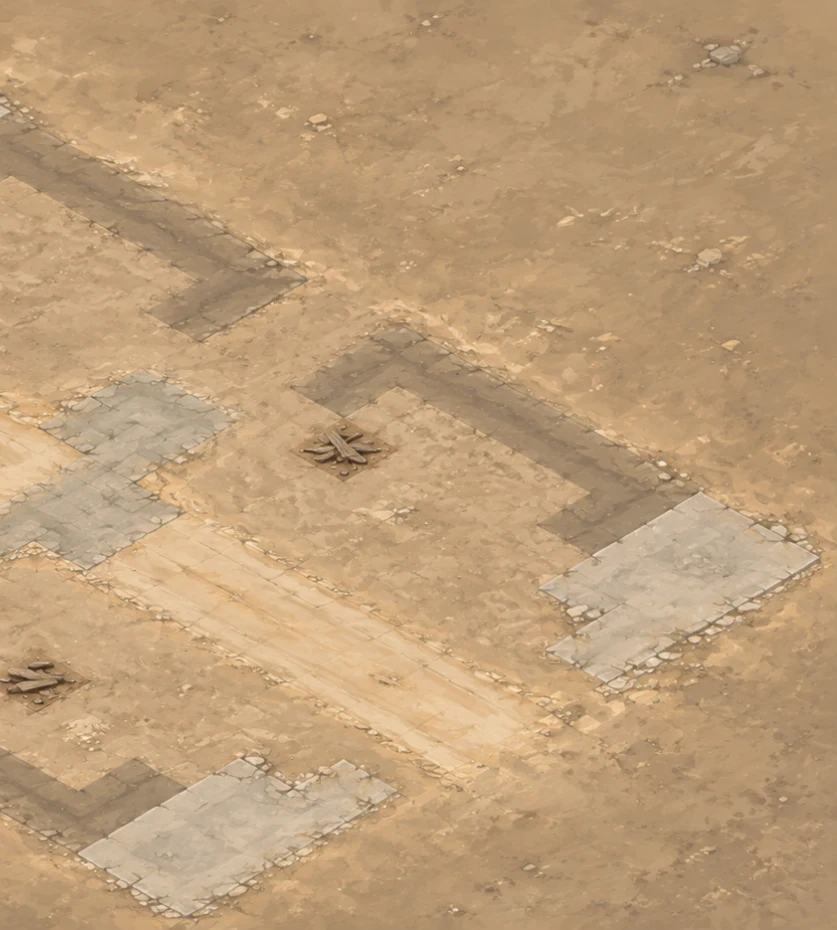
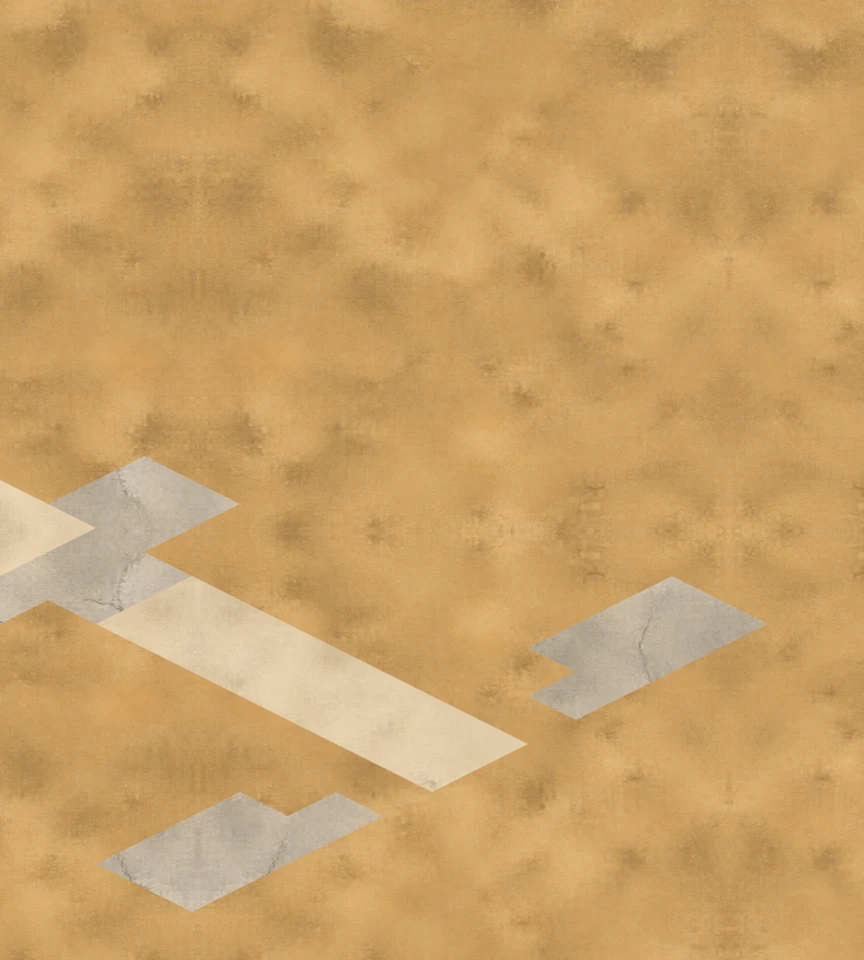
Align quarry ground materials and cover to map cells

diff --git a/scripts/art/quarry-ground-pack.ts b/scripts/art/quarry-ground-pack.ts
@@ -1,0 +1,85 @@
+/** Pack authored material texels through authoritative map masks; never infer geometry from art. */
+import { mkdirSync, writeFileSync } from 'node:fs';
+import { QUARRY_GATE } from '../../src/content/maps/combat';
+import { newImage, readImage, pixelAt, setPixel, writePng } from './lib/image';
+import { alphaBounds, crop } from './lib/trim';
+import { scaleTo } from './lib/scale';
+import { encodeWebp } from './lib/webp';
+
+const [materialPath, coverPath] = process.argv.slice(2);
+if (!materialPath || !coverPath)
+  throw new Error('Provide three-panel materials and transparent timber PNGs.');
+const source = readImage(materialPath),
+  timber = readImage(coverPath);
+if (source.width !== source.height * 3)
+  throw new Error('Expected three equal square material panels.');
+const fields = [0, 1, 2].map((index) =>
+  crop(source, {
+    // Discard generation's panel-border contamination before repeating the field.
+    x: index * source.height + 8,
+    y: 8,
+    width: source.height - 16,
+    height: source.height - 16,
+  }),
+);
+/** Reflected authored texels meet without seams; no upscaling or invented paint. */
+const mirror = (value: number, size: number) => {
+  const period = value % (size * 2);
+  return period < size ? period : size * 2 - period - 1;
+};
+const plate = newImage(2304, 1280);
+const counts: Record<string, number> = {};
+for (let py = 0; py < plate.height; py++)
+  for (let px = 0; px < plate.width; px++) {
+    // Pixel centers in world coordinates, inverted from X=(64,32), Y=(-64,32).
+    const wx = px + 0.5 - 128,
+      wy = py + 0.5 - 192;
+    const gx = ((wx - 768) / 64 + wy / 32) / 2;
+    const gy = (wy / 32 - (wx - 768) / 64) / 2;
+    const key = QUARRY_GATE.rows[Math.floor(gy)]?.[Math.floor(gx)] ?? '.';
+    const material = key === '=' ? 1 : key === '^' || key === 'o' ? 2 : 0;
+    const field = fields[material];
+    if (!field) throw new Error('Missing authored material.');
+    setPixel(plate, px, py, pixelAt(field, mirror(px, field.width), mirror(py, field.height)));
+    counts[key] = (counts[key] ?? 0) + 1;
+  }
+const bounds = alphaBounds(timber);
+if (!bounds) throw new Error('Timber is empty.');
+const trimmed = crop(timber, bounds);
+const scale = Math.min(168 / trimmed.width, 72 / trimmed.height);
+const piece = scaleTo(
+  trimmed,
+  Math.round(trimmed.width * scale),
+  Math.round(trimmed.height * scale),
+);
+const decal = newImage(224, 96);
+const ox = Math.floor((decal.width - piece.width) / 2),
+  oy = Math.floor((decal.height - piece.height) / 2);
+let clipped = 0;
+for (let y = 0; y < piece.height; y++)
+  for (let x = 0; x < piece.width; x++) {
+    const px = x + ox,
+      py = y + oy,
+      rgba = pixelAt(piece, x, y);
+    // Clip against the true 128x64 cell diamond, not an invented rectangular footprint.
+    if (Math.abs((px + 0.5) / 2 - 56) / 64 + Math.abs((py + 0.5) / 2 - 24) / 32 > 1) {
+      if (rgba[3]) clipped++;
+    } else setPixel(decal, px, py, rgba);
+  }
+const packed = scaleTo(plate, 1728, 960);
+const outputs = await Promise.all(
+  [0, 1].map(async (index) => ({
+    name: `ground-${index === 0 ? 'west' : 'east'}`,
+    bytes: await encodeWebp(crop(packed, { x: index * 864, y: 0, width: 864, height: 960 }), 88),
+  })),
+);
+outputs.push({ name: 'cover-timber', bytes: await encodeWebp(decal, 88, true) });
+const bytes = outputs.reduce((total, output) => total + output.bytes.length, 0);
+if (bytes > 240 * 1024) throw new Error(`Ground and cover planning budget exceeded: ${bytes}`);
+const directory = 'public/art/maps/quarry-gate-scene';
+mkdirSync(directory, { recursive: true });
+for (const output of outputs) writeFileSync(`${directory}/${output.name}.webp`, output.bytes);
+mkdirSync('art/raw/quarry-gate', { recursive: true });
+writePng('art/raw/quarry-gate/masked-ground.png', plate);
+writePng('art/raw/quarry-gate/packed-cover.png', decal);
+console.log({ bytes, counts, clipped, coverBounds: bounds, ground: [864, 960], cover: [224, 96] });

diff --git a/src/content/credits.ts b/src/content/credits.ts
@@ -172,13 +172,13 @@ export const CREDITS: readonly CreditEntry[] = [
     note: 'Original generated art registered to the existing terrain without collision changes. Source IDs, prompts, masking and anchors: docs/art/forest-scene-registration.md. Output terms: https://openai.com/policies/row-terms-of-use/. No exclusive copyright in generated output is claimed.',
   },
   {
-    what: 'Quarry gate scene',
-    work: 'Registered limestone ground and bonded wall variants',
+    what: 'The registered quarry gate art',
+    work: 'Quarry material textures, low timber cover and modular limestone walls',
     authors: 'This project, generated with OpenAI image generation',
     licence: 'own work',
     source: '',
     covers: ['art/maps/quarry-gate-scene'],
-    note: 'Original generated art registered to existing terrain. Source IDs, packing and anchors: docs/art/quarry-gate-registration.md. Output terms: https://openai.com/policies/row-terms-of-use/. No exclusive copyright in generated output is claimed.',
+    note: 'Original generated materials packed through authoritative map-cell masks, with separate transparent timber and wall pieces. The initial wholeplate was rejected for semantic drift. Prompts, provenance and repair notes: docs/art/quarry-gate-registration.md. Output terms: https://openai.com/policies/row-terms-of-use/. No exclusive copyright in generated output is claimed.',
   },
   ...THIRD_PARTY_CREDITS,
   {

diff --git a/src/content/scenes/quarryGate.test.ts b/src/content/scenes/quarryGate.test.ts
@@ -2,6 +2,24 @@ import { expect, it } from 'vitest';
 import { QUARRY_GATE } from '../maps/combat';
 import { QUARRY_GATE_SCENE, QUARRY_GATE_WALL_CELLS, quarryWallVariant } from './quarryGate';
 
+it('centers four low cover decals on the actual passable cover cells', () => {
+  const cells = QUARRY_GATE.rows.flatMap((row, y) =>
+    [...row].flatMap((key, x) => (key === 'c' ? [{ x, y }] : [])),
+  );
+  expect(QUARRY_GATE_SCENE.ground).toHaveLength(6);
+  const decals = QUARRY_GATE_SCENE.ground.slice(2);
+  expect(decals).toHaveLength(cells.length);
+  for (const [index, cell] of cells.entries()) {
+    const decal = decals[index];
+    expect(decal).toMatchObject({
+      x: 768 + (cell.x - cell.y) * 64 - 56,
+      y: (cell.x + cell.y + 1) * 32 - 24,
+      width: 112,
+      height: 48,
+    });
+  }
+});
+
 it('uses exactly the existing 32 blocked wall cells and keeps their projected feet/depth aligned', () => {
   const cells = QUARRY_GATE.rows.flatMap((row, y) =>
     [...row].flatMap((key, x) => (key === '#' ? [{ x, y }] : [])),

diff --git a/src/content/scenes/quarryGate.ts b/src/content/scenes/quarryGate.ts
@@ -1,6 +1,12 @@
 import type { MapScene, Vec2 } from '../../core/types';
 
 const root = 'art/maps/quarry-gate-scene/';
+export const QUARRY_GATE_COVER_CELLS: readonly Vec2[] = [
+  { x: 13, y: 2 },
+  { x: 5, y: 3 },
+  { x: 5, y: 8 },
+  { x: 14, y: 9 },
+];
 export const QUARRY_GATE_WALL_CELLS: readonly Vec2[] = [0, 1, 10, 11].flatMap((y) =>
   (y === 0 || y === 11 ? [4, 5, 6, 7, 8, 9, 12, 13, 14, 15, 16, 17] : [4, 9, 12, 17]).map((x) => ({
     x,
@@ -21,6 +27,13 @@ export const QUARRY_GATE_SCENE: MapScene = {
   ground: [
     { url: `${root}ground-west.webp`, x: -128, y: -192, width: 1152, height: 1280 },
     { url: `${root}ground-east.webp`, x: 1024, y: -192, width: 1152, height: 1280 },
+    ...QUARRY_GATE_COVER_CELLS.map(({ x, y }) => ({
+      url: `${root}cover-timber.webp`,
+      x: 768 + (x - y) * 64 - 56,
+      y: (x + y + 1) * 32 - 24,
+      width: 112,
+      height: 48,
+    })),
   ],
   scenery: QUARRY_GATE_WALL_CELLS.map(({ x, y }) => ({
     id: `quarry-wall-${x}-${y}`,

diff --git a/docs/art/quarry-gate-registration.md b/docs/art/quarry-gate-registration.md
@@ -1,6 +1,8 @@
 # Quarry gate registered art candidate
 
-Status: local source candidate; actual 96px gameplay review remains pending.
+Status: original wholeplate REJECTED on integrated runtime `4e7788b`.
+The replacement below repairs material registration; integrated gameplay and
+overall visual acceptance remain pending.
 Gate first, cutting and floor later. No legacy backdrop, map row, prop, hazard,
 spawn, route or save data changes are included here. Gameplay owns projection
 opt-in, live surfaces and props, picking and actor-aware wall occlusion.
@@ -20,13 +22,54 @@ on. End, corner and bonded-interior material variants use cardinal wall adjacenc
 No multi-cell depth sprite, source-rectangle atlas contract or overhang is added.
 
 The 36 elevation cells remain walkable, represented by shallow ground stone.
-Four wood-cover cells at (13,2),(5,3),(5,8),(14,9) have low timber offcuts painted
-inside their ground footprints. They remain passable. The 12 oil cells have
+Four wood-cover cells at (13,2),(5,3),(5,8),(14,9) have separate low timber decals
+centered inside their ground footprints. They remain passable. The 12 oil cells have
 neutral stone substrate, never baked oil or painted-surface suppression.
 Brazier (10,5), barrels (14,3)/(14,8), flask (12,4), cart (6,6), exits (0,5)/(19,5),
 parley crossing x8 and all party/enemy spawns remain gameplay-owned and unchanged.
 
 ## Sources and packing
+
+### Deterministic repair
+
+The original generated ground failed semantic registration despite matching
+the plate aspect ratio. For example, cover (5,3) appeared near logical
+(3.78,1.78). Roads and elevation were also displaced. The original source is
+retained for provenance, but neither its geometry nor its painted props are used.
+
+Built-in ImageGen produced `exec-bbd97582-db51-429f-879c-9f2345378cc5.png`
+(2172 × 724, three equal material panels) and
+`exec-99f58bdf-66be-4d8b-886c-ca9d8967e096.png` (transparent low timber).
+The material prompt requested even, unobstructed, edge-to-edge quarry dust,
+pale compacted road dust and warm-gray shallow limestone fields, with no map,
+objects, cliffs, oil, shadows or gameplay geometry. The cover prompt requested
+one ankle-high irregular heap of weathered timber, true alpha, isometric view,
+no floor patch or extra props. Both use the project's original painterly-ground
+and restrained ink/shading brief; no external downloaded art is used.
+
+`quarry-ground-pack.ts` crops an eight-pixel inset from each material panel,
+reflects authored texels without upscaling, and selects the material by inverting
+the agreed projection at every world pixel center. All 36 `=` cells select road;
+all 36 `^` and 12 `o` cells select stone; remaining cells and bleed select dirt.
+No generated region boundary determines game geometry. There is no wholeplate
+warp or procedural replacement painting. Two 864 × 960 WebPs cover the same
+world extent as before. Their downsampling may soften a boundary by one texel.
+
+One 224 × 96 transparent timber image is placed four times at 112 × 48 world
+size, centered on the real `c` cells and clipped to the true 128 × 64 cell diamond.
+The authored silhouette fits without removing any nontransparent pixels.
+There are six ground entries and the original 32 wall entries. All wall files,
+live oil, props, spawns, collision rules, actor depth and fade rules are unchanged.
+This is map-truth repair, not a claim that the material style meets the approved
+finished scene target. Sharp road/shelf boundaries and reflected material
+repetition require review at the actual gameplay camera.
+
+Repaired ground and cover total 168,142 bytes; retained walls total 66,614 bytes.
+The map family is 3.08 MiB of its existing 4 MiB budget. `npm run verify`
+passed 627 tests, and art validation and asset budget checks passed. The exact
+packed-image overlay was visually inspected against all four semantic classes.
+
+### Rejected wholeplate and retained wall provenance
 
 ImageGen sources in
 `C:/Users/Jared/.codex/generated_images/01a0b2ee-8d60-7643-be9b-340997ca4ae0/`:
@@ -60,7 +103,6 @@ do not establish visual acceptance. Inspect coherent wall runs versus repeated
 block appearance, exposed ends/corners, ground contact and occlusion while actors
 move on both sides. Check live oil/brazier/barrel/cart interactions and low cover
 readability on both backends at the actual 96px camera before extending maps.
-The source has darker neutral floor under the wall locations; verify these do
-not appear as visible skirts when walls fade. Minor authored silhouette insets
+Minor authored wall silhouette insets
 must not create distracting seams between adjacent cells. The quarry reference
 is a composition/material target, not authorization to invent new obstacles.

diff --git a/docs/coordination/handoffs/quarry-gate-mask-repair.md b/docs/coordination/handoffs/quarry-gate-mask-repair.md
@@ -1,0 +1,77 @@
+# Quarry gate mask repair and moving-review handoff
+
+The wholeplate on integrated runtime `4e7788b` is rejected. Its correct aspect
+ratio and scenery metadata did not preserve semantic ground locations. The
+replacement selects authored material texels through exact map-row masks and
+places four separately packed low timber decals. Gameplay owns integration;
+source work stays local for cherry-pick into the single integrated checkpoint.
+
+## Source changes
+
+- `scripts/art/quarry-ground-pack.ts`: inverse-projection material packing from
+  authoritative `QUARRY_GATE` rows, with no wholeplate warp or invented geometry.
+- Two replacement ground WebPs plus one transparent cover WebP; six ground
+  entries total. All 32 wall assets/anchors remain unchanged.
+- Cover registration test checks the map's actual four `c` cells. No map rows,
+  props, hazards, exits, spawns or runtime movement rules change.
+- Provenance and original rejection: `docs/art/quarry-gate-registration.md`.
+
+Packed ground and cover total 168,142 bytes. Art-family budget check reports
+maps 3.08 MiB, units 3.98 MiB, portraits 3.96 MiB. No budget increases or other
+asset quality reductions. Source verification: typecheck, lint, formatting and
+627 tests pass; art validation and asset budgets pass. A source budget read
+against an existing dist directory is not a new integrated precache build.
+
+## Visual evidence and limits
+
+Local ignored evidence root:
+`gallery/scene-audit/quarry-gate-mask-repair/`.
+`semantic-overlay.png` composites the actual packed WebPs and outlines all
+4 cover, 36 elevation, 12 oil and 36 road cells. It was visually inspected.
+`packed-ground.png` and `mask-audit.json` preserve the unlabelled result and
+coordinates. Material edges align; cover is inside each exact diamond.
+
+This is alignment repair, not finished visual acceptance. Material-mask edges
+are sharp, shallow elevation has no raised lip, and reflected material patterns
+can repeat. Existing walls remain pristine relative to the quarry target.
+Review actual 96px integrated play, high contrast and live oil/props on both
+backends before any further map or cosmetic generation.
+
+## Moving baseline: candidate before pacing fix
+
+`gallery/scene-audit/moving-4e7788b/{canvas,webgl}/` contains full-page
+`normal-route.webm`, separate `audio.webm`, `route-log.json` and desktop Mira
+dialogue screenshots. Gameplay froze source `5aaf7e1` with runtime revision
+`4e7788b`; service worker was blocked and controller null. Runtime script URLs
+are recorded. No new per-module runtime hash audit was performed during this
+capture, so the freeze owner's runtime identification is an explicit dependency.
+
+The uninterrupted route uses actual New game and character setup, village taps
+to (7,6) and (10,6), native Talk Mira, all dialogue buttons, the east village
+exit, forest story/encounter crossings and two combat Move/tile/Confirm actions,
+then End turn and the AI turn. No scripted `enterNode` or gameplay state edits
+stage the route; the logged opening `enterNode` is dispatched internally by
+normal game setup. Settings enable ordinary motion and Normal volume.
+
+Both recordings stop after the harness fails to select a later Round 2 move
+target. This is unresolved automation targeting, not proof of a game defect.
+There is no successful player cast/impact/recovery capture in this baseline.
+The JSON records command events and 40ms pose/position/camera samples. No page
+errors were recorded. Desktop Mira's existing portrait is visible; mobile CSS
+portrait correction belongs to writing/gameplay.
+
+Direct frame inspection of the WebGL two-cell walk shows rapid travel through
+wide stride and narrow passing poses into the wide combat stance. The motion
+exists but its short duration limits readability. Gameplay's proposed slower
+ordinary-combat walk is the bounded first correction; compare the same short
+and longer turning path after it, then cast/recoil/recovery. Do not spend the
+remaining unit budget on extra frames before this comparison.
+
+Audio was captured from the game master through an added capture-only bridge.
+It has not been listened to here. Recorded cues and signal presence establish
+technical evidence only; timbre, balance and perceived impact remain open.
+The browser video and audio have separate capture clocks and must not be used
+for frame-exact audiovisual timing without explicit alignment.
+
+The runtime freeze was released after these captures. No cutting/floor work,
+wall regeneration, PR push, CI claim or merge is included in this source handoff.

diff --git a/NOTICE.md b/NOTICE.md
@@ -38,6 +38,6 @@ Notes:
 - **The Act 1 environments.** Original generated environments registered to the authored map layouts, with transparent props packed separately. Prompts and processing notes: docs/art/act1-environments.md. Output terms: https://openai.com/policies/row-terms-of-use/. No exclusive copyright in generated output is claimed.
 - **The layered Ba Dan courtyard.** Original generated material and scenery art, packed against the logical village map. Exact prompts, processing and registration: docs/art/ba-dan-scene.md and docs/art/ba-dan-scene-prompts.json. Output terms: https://openai.com/policies/row-terms-of-use/. No exclusive copyright in generated output is claimed.
 - **The layered Forest Road.** Original generated art registered to the existing terrain without collision changes. Source IDs, prompts, masking and anchors: docs/art/forest-scene-registration.md. Output terms: https://openai.com/policies/row-terms-of-use/. No exclusive copyright in generated output is claimed.
-- **Quarry gate scene.** Original generated art registered to existing terrain. Source IDs, packing and anchors: docs/art/quarry-gate-registration.md. Output terms: https://openai.com/policies/row-terms-of-use/. No exclusive copyright in generated output is claimed.
+- **The registered quarry gate art.** Original generated materials packed through authoritative map-cell masks, with separate transparent timber and wall pieces. The initial wholeplate was rejected for semantic drift. Prompts, provenance and repair notes: docs/art/quarry-gate-registration.md. Output terms: https://openai.com/policies/row-terms-of-use/. No exclusive copyright in generated output is claimed.
 - **The app icons.** Drawn by scripts/make-icons.mjs.
 - **The test art.** Flat colour stand-ins the end-to-end tests read back; never seen in play.
